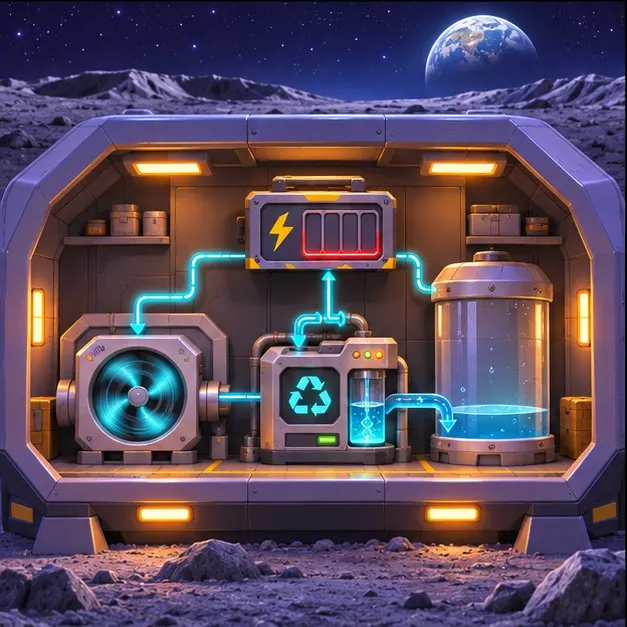
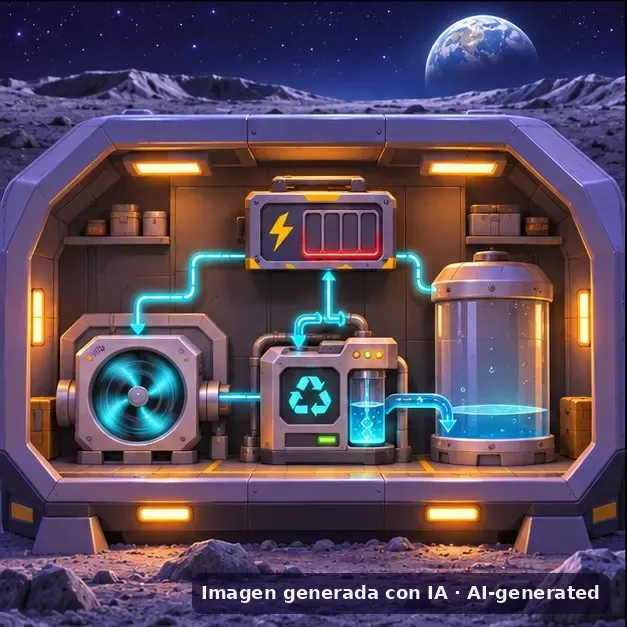
Marca de agua visible «Imagen generada con IA · AI-generated» en el storyboard y los personajes (regla del envío); originales en tools/ia-originales
Claude-Session: https://claude.ai/code/session_01B74Wfxz9gu32CrMuvuw8Vd

Changed region(s): [[0.303, 0.9091, 0.9697, 1.0]]

diff --git a/tools/marca-agua.py b/tools/marca-agua.py
@@ -1,0 +1,38 @@
+"""Marca de agua visible «Imagen generada con IA · AI-generated» en las ilustraciones hechas con IA
+(regla del envío de NASA Space Apps). Lee los originales de tools/ia-originales/ y escribe en assets/.
+
+Uso: python3 tools/marca-agua.py
+"""
+from pathlib import Path
+from PIL import Image, ImageDraw, ImageFont
+
+RAIZ = Path(__file__).resolve().parent.parent
+TEXTO = 'Imagen generada con IA · AI-generated'
+FUENTE = '/usr/share/fonts/truetype/dejavu/DejaVuSans-Bold.ttf'
+
+def marcar(origen: Path, destino: Path, chica=False):
+    im = Image.open(origen).convert('RGBA')
+    w, h = im.size
+    tam = max(11, int(min(w, h) * (0.03 if not chica else 0.045)))
+    capa = Image.new('RGBA', im.size, (0, 0, 0, 0))
+    d = ImageDraw.Draw(capa)
+    while True:  # achica la letra hasta que el texto quepa en el 88 % del ancho
+        f = ImageFont.truetype(FUENTE, tam)
+        caja = d.textbbox((0, 0), TEXTO, font=f)
+        tw, th = caja[2] - caja[0], caja[3] - caja[1]
+        if tw <= w * 0.88 or tam <= 9: break
+        tam -= 1
+    pad = int(tam * 0.5)
+    x, y = w - tw - pad * 3, h - th - pad * 3
+    d.rounded_rectangle((x - pad, y - pad, x + tw + pad, y + th + pad * 1.4), radius=pad, fill=(14, 6, 36, 170))
+    d.text((x, y), TEXTO, font=f, fill=(255, 255, 255, 235))
+    out = Image.alpha_composite(im, capa)
+    if origen.parent.name == 'historia':
+        out = out.convert('RGB')
+    out.save(destino, quality=82)
+
+for o in sorted((RAIZ / 'tools/ia-originales/historia').glob('*.webp')):
+    marcar(o, RAIZ / 'assets/historia' / o.name)
+for o in sorted((RAIZ / 'tools/ia-originales/marca').glob('*.webp')):
+    marcar(o, RAIZ / 'assets/marca' / o.name, chica=True)
+print('listo')

diff --git a/docs/USE-OF-AI.md b/docs/USE-OF-AI.md
@@ -9,7 +9,7 @@ the missions and the data, and reviewed everything that the tools produced.
 |---|---|---|---|
 | Code | **Claude** (Anthropic), as a coding assistant | Helped write and refactor the JavaScript game, the 3D scene (Three.js), the Node server, tests and these documents | Gameplay, numbers and texts reviewed by the team; 33 automated tests (`npm test`) and browser checks |
 | Voice of Nebula | **Piper TTS** (`es_MX-claude-high`, Apache 2.0) and **Kokoro-82M** (`af_heart`, Apache 2.0) | Text-to-speech for Nebula's lines in Spanish and English | Each audio file is transcribed back with Whisper (`tools/voz/verificar.py`) and compared with the text |
-| Storyboard illustrations | AI image generator *(tool to be confirmed by the team)* | The 16 storyboard frames shown in "Watch the story" and on the landing page | Labelled in the game as AI-generated illustrations; **must carry a visible watermark before submission** |
+| Storyboard illustrations and character art | AI image generator *(tool to be confirmed by the team)* | The 16 storyboard frames ("Watch the story", landing page) and the four character images | Each image carries a visible watermark «Imagen generada con IA · AI-generated» (`tools/marca-agua.py`, originals kept in `tools/ia-originales/`) |
 | Data | — | **No AI-generated data.** Every NASA figure comes from a cited NASA source (see [NASA-DATA.md](NASA-DATA.md)) | Figures marked "to be verified" until checked against the source |
 
 What is **not** AI-generated: the game rules (`js/sim.js`), the NASA figures, the mission design and the learning assessment
